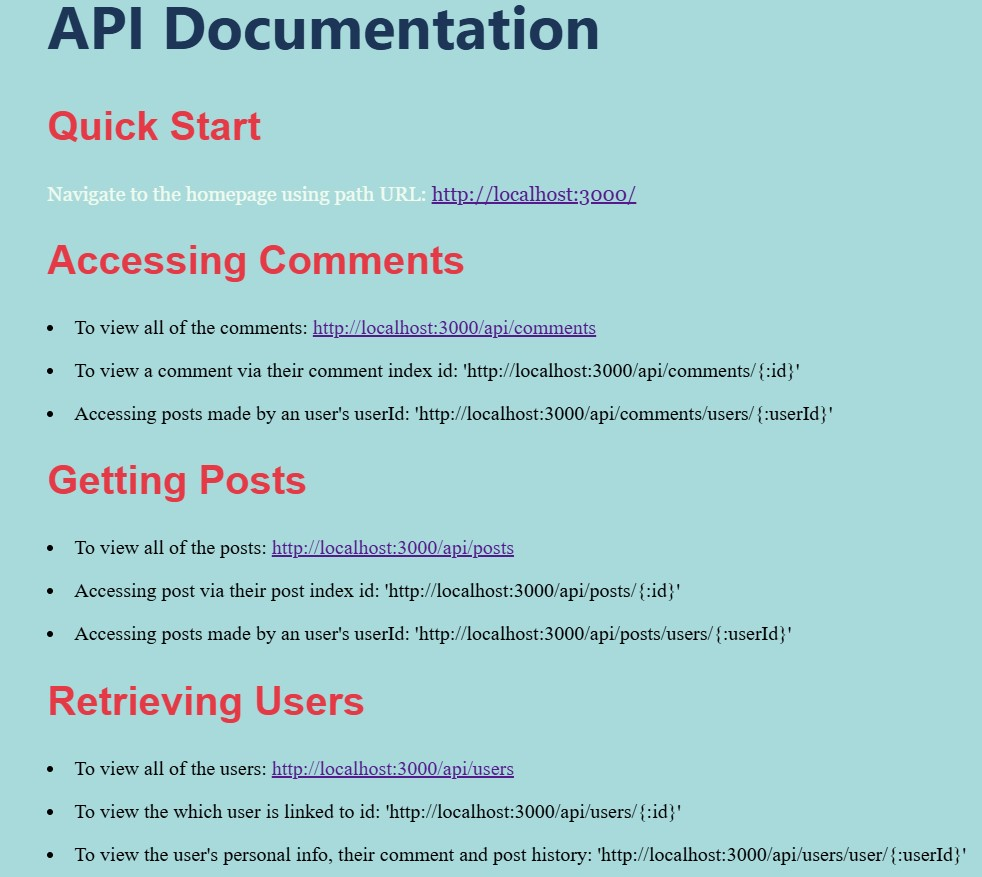
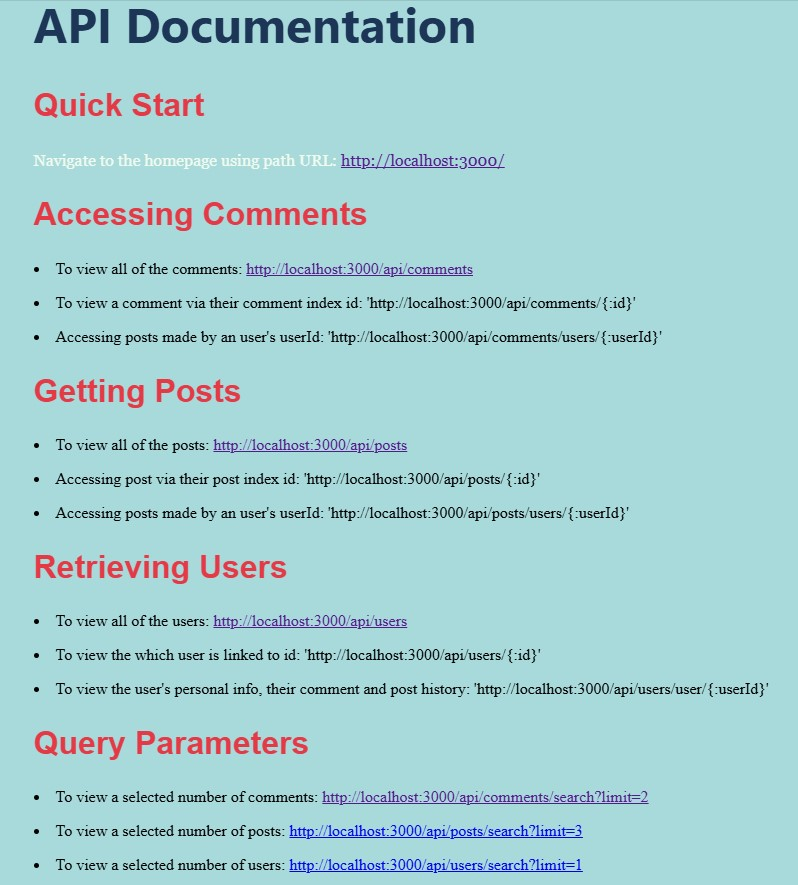
touched up documentation for Express server app

Changed region(s): [[0.0301, 0.0924, 0.8421, 0.5849], [0.0301, 0.6157, 0.9925, 0.9852], [0.0301, 0.0, 0.6316, 0.0616]]

diff --git a/endpoints/endpoints.html b/endpoints/endpoints.html
@@ -31,6 +31,14 @@
             <a href='http://localhost:3000/api/users'>http://localhost:3000/api/users</a></li></p>
         <p><li>To view the which user is linked to id: 'http://localhost:3000/api/users/{:id}'</li></p>
         <p><li>To view the user's personal info, their comment and post history: 'http://localhost:3000/api/users/user/{:userId}'</li></p>
+    
+        <h2>Query Parameters</h2>
+        <p><li>To view a selected number of comments: 
+            <a href='http://localhost:3000/api/comments/search?limit=2'>http://localhost:3000/api/comments/search?limit=2</a></li></p>
+        <p><li>To view a selected number of posts: 
+            <a href='http://localhost:3000/api/posts/search?limit=3'>http://localhost:3000/api/posts/search?limit=3</a></li></p>
+        <p><li>To view a selected number of users: 
+            <a href='http://localhost:3000/api/users/search?limit=1'>http://localhost:3000/api/users/search?limit=1</a></li></p>
     </div>
     
 
